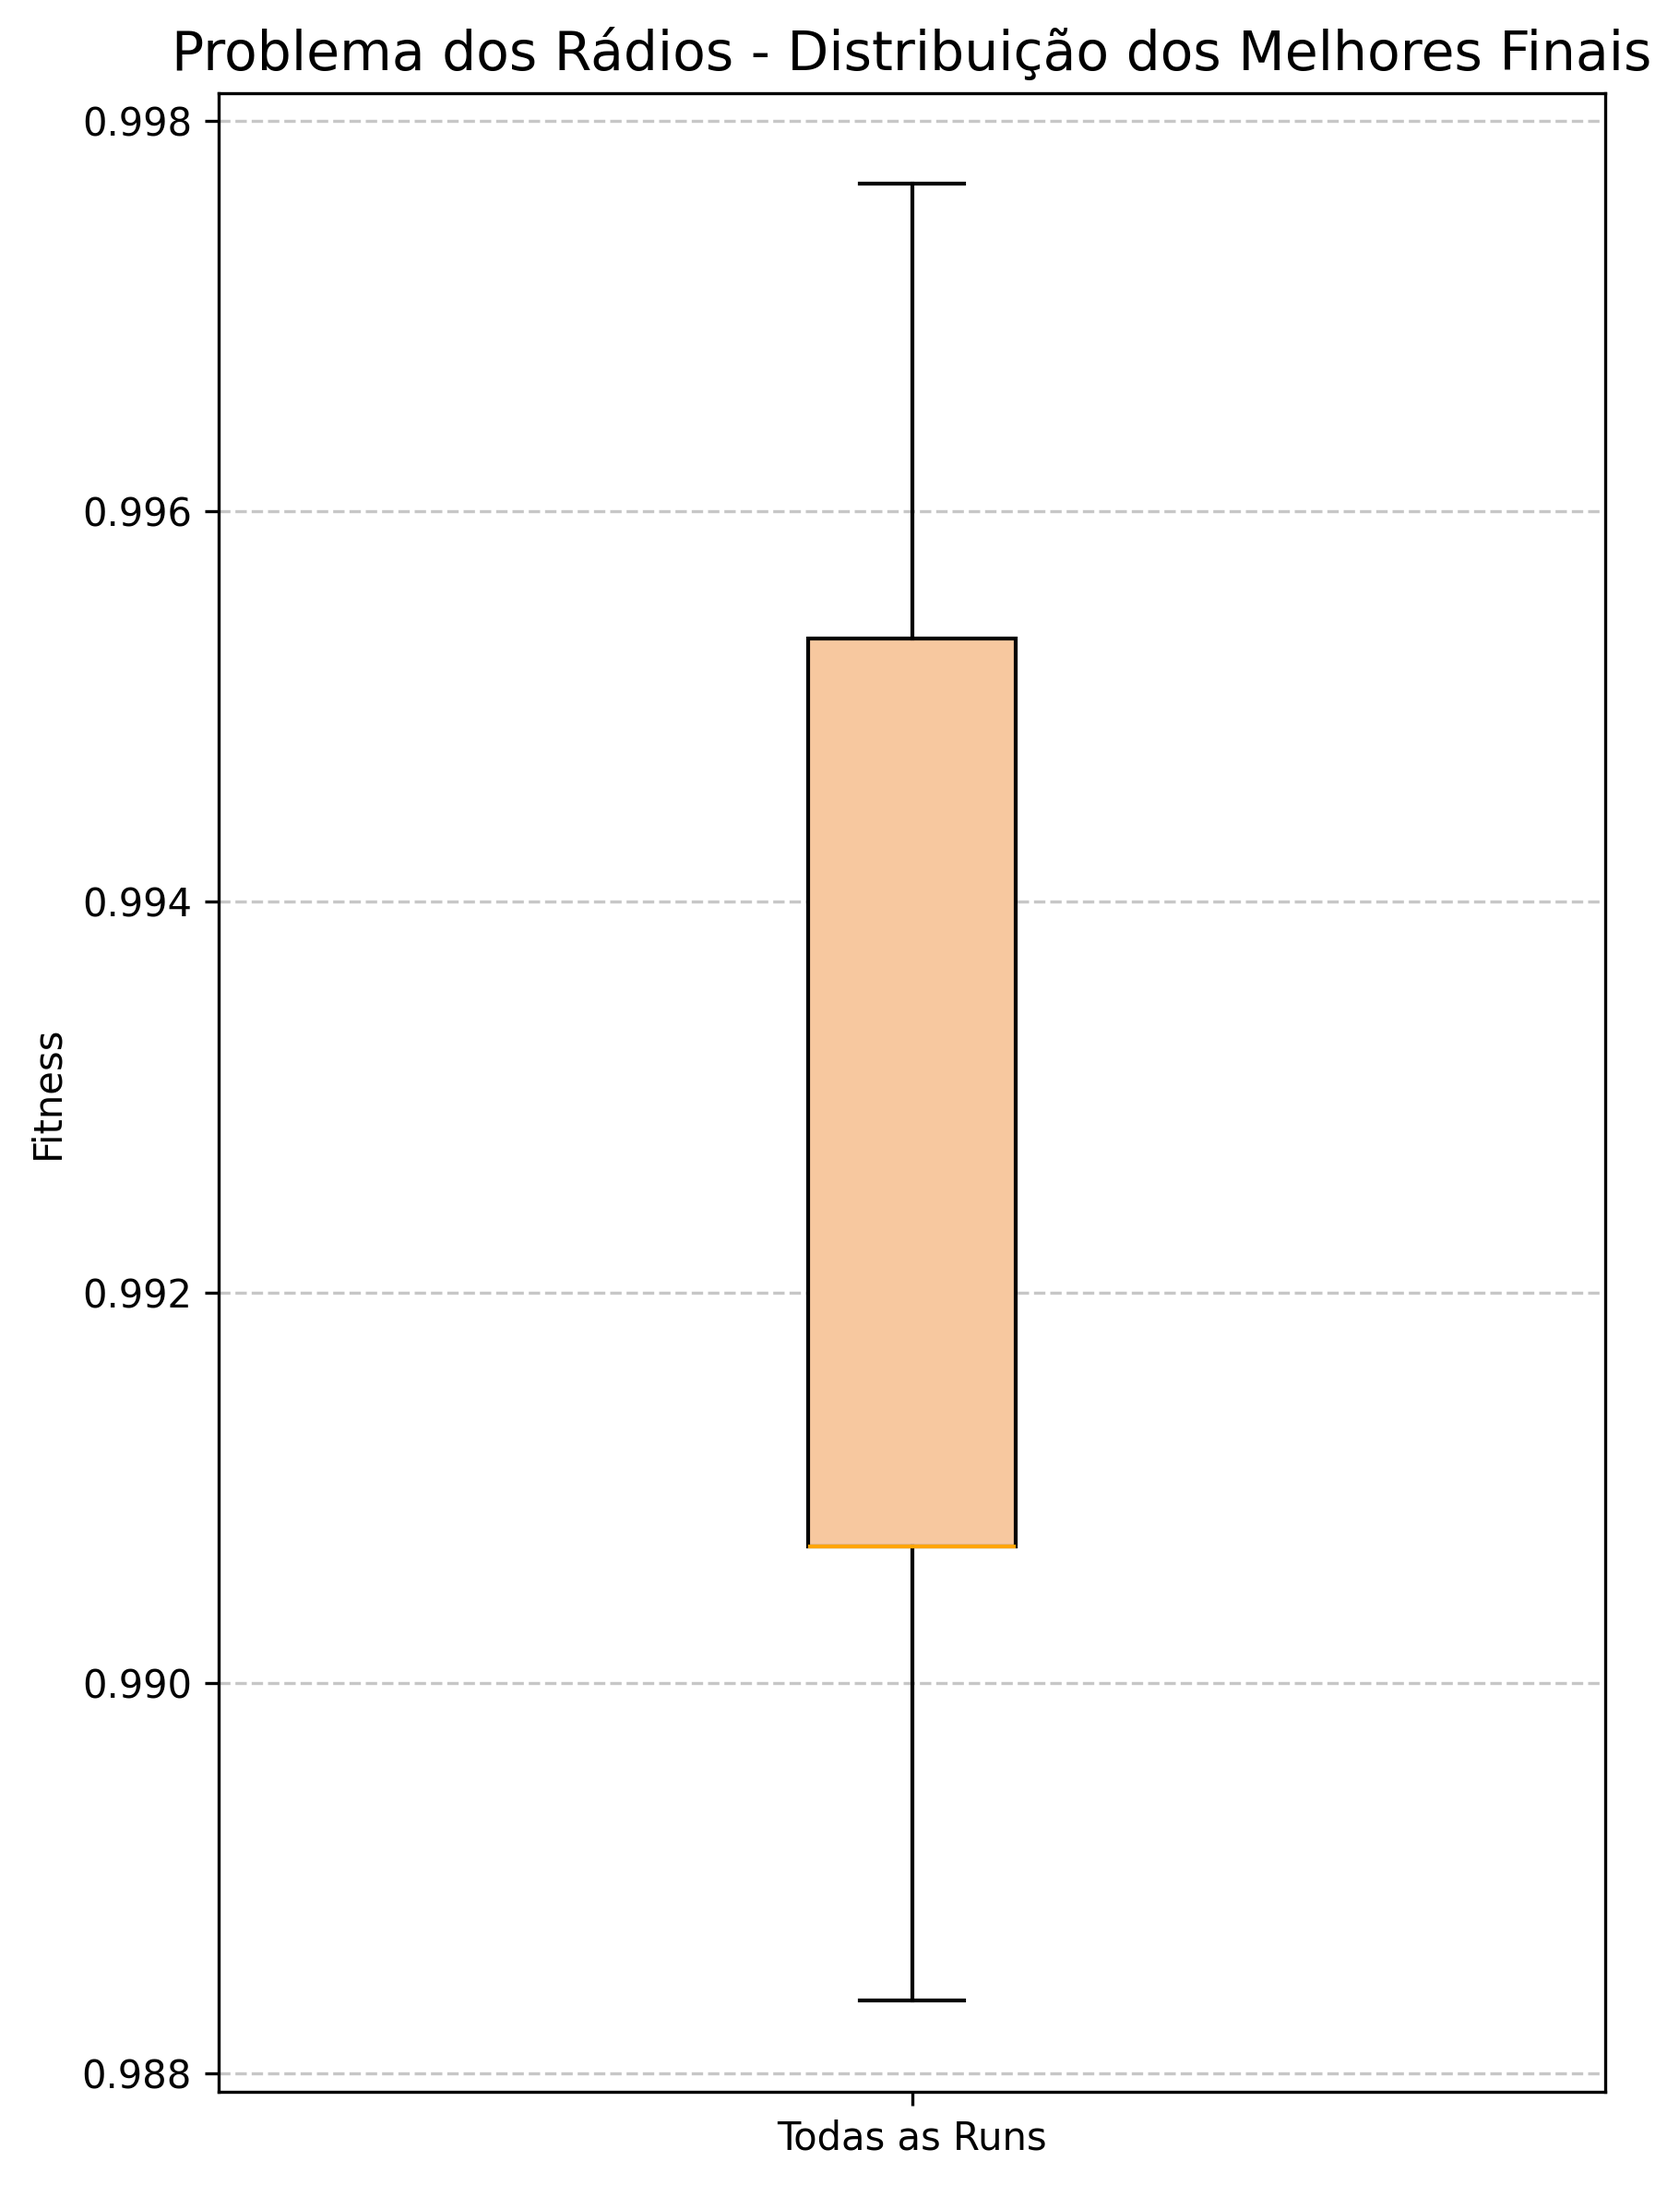
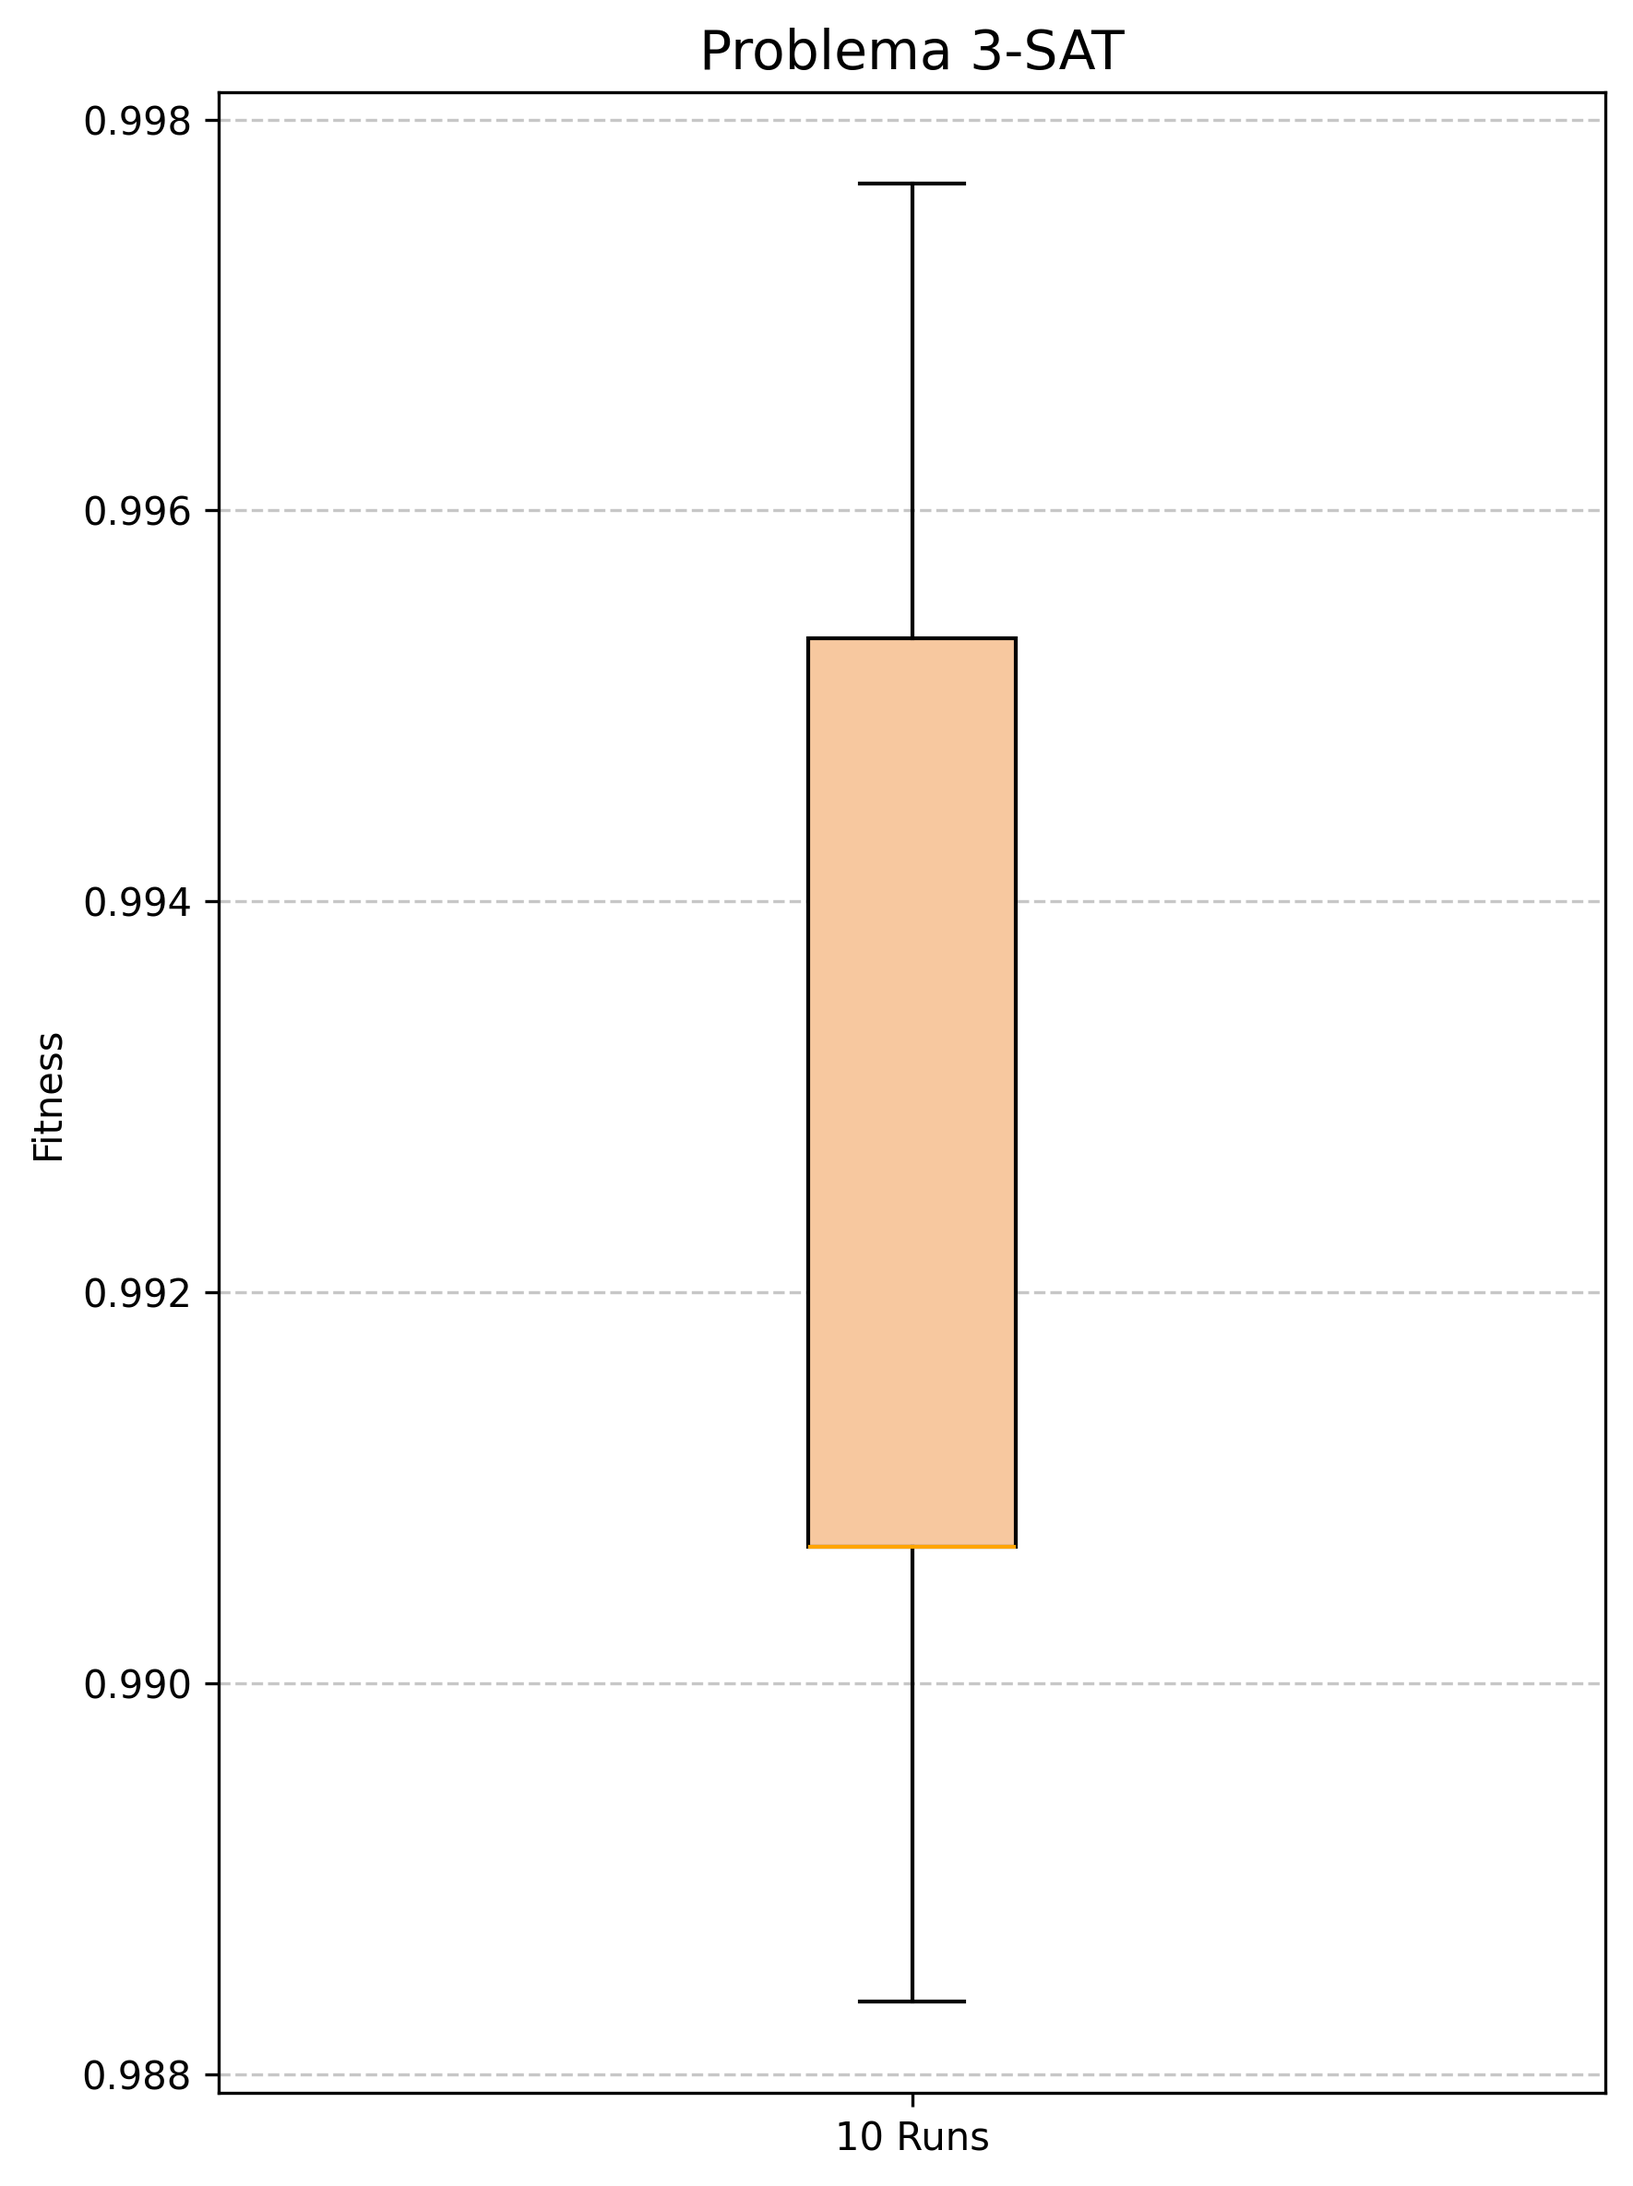
boxplots

diff --git a/boxplot.py b/boxplot.py
@@ -2,8 +2,8 @@ import pandas as pd
 import matplotlib.pyplot as plt
 
 # Lê o CSV gerado pelo Rust
-# df = pd.read_csv("boxplot_3sat.csv", header=None, names=["run", "generation", "best"])
-df = pd.read_csv("boxplot_radios.csv", header=None, names=["run", "generation", "best"])
+df = pd.read_csv("boxplot_3sat.csv", header=None, names=["run", "generation", "best"])
+# df = pd.read_csv("boxplot_radios.csv", header=None, names=["run", "generation", "best"])
 
 # Garante os tipos corretos
 df["run"] = df["run"].astype(int)
@@ -20,12 +20,12 @@ plt.boxplot(best_final_per_run,
             boxprops=dict(facecolor="#f7c89f", color="black"),
             medianprops=dict(color="orange"))
 
-plt.title("Problema dos Rádios - Distribuição dos Melhores Finais", fontsize=14)
+plt.title("Problema 3-SAT", fontsize=14)
 plt.ylabel("Fitness")
-plt.xticks([1], ["Todas as Runs"])
+plt.xticks([1], ["10 Runs"])
 plt.grid(True, axis="y", linestyle="--", alpha=0.7)
 
 plt.tight_layout()
-# plt.savefig("boxplot_3sat_final.png", dpi=300, bbox_inches='tight')
-plt.savefig("boxplot_radios_final.png", dpi=300, bbox_inches='tight')
+plt.savefig("boxplot_3sat_final.png", dpi=300, bbox_inches='tight')
+# plt.savefig("boxplot_radios_final.png", dpi=300, bbox_inches='tight')
 plt.show()
